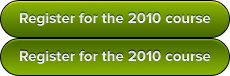
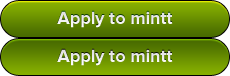
Updated home and register form from Mehdi feedback

Changed region(s): [[0.0609, 0.6316, 0.9435, 0.8684], [0.0609, 0.1316, 0.9435, 0.3684]]

diff --git a/public/stylesheets/style.css b/public/stylesheets/style.css
@@ -170,6 +170,44 @@ a#registration_button span {display:none;}
   line-height:20px;
 }
 
+#sidebar ul.entities {
+  margin:5px 0 0;
+  background:#111;
+  -webkit-border-radius:8px;
+  -moz-border-radius:8px;
+}
+
+#sidebar ul.entities li {
+  padding:0;
+  background:none;
+  display:block;
+  font-size:15px;
+  border-top:1px solid #222;
+  border-bottom:1px solid #000;
+}
+
+#sidebar ul.entities li.first {
+  line-height:0;
+  border-top:none;
+}
+
+#sidebar ul.entities li.last {
+  border-bottom:none;
+}
+
+#sidebar ul.entities li a {
+  display:block;
+  padding:10px 0 8px 10px;
+  color:#fff;
+  font-weight:500;
+}
+
+#sidebar ul.entities li a em {
+  color:#666;
+  font-style:normal;
+  text-shadow:none;
+}
+
 #modules {
   list-style-type:none;
 }
@@ -280,20 +318,23 @@ form.main .string label, form.main .text label {
 }
 
 form.main .string input, form.main textarea {
-  background:#fff;
+  background:#bbb;
   border:none;
   width:590px;
   font-size:15px;
   padding:3px;
-  border:2px solid #666;
+  border:2px solid #888;
+  -webkit-transition:background 0.2s;
 }
 
 form.main textarea {
   margin-bottom:-9px;
+  resize:vertical;
 }
 
 form.main .string input:focus, form.main textarea:focus {
   background:#fff;
+  border:2px solid #666;
   outline-color:#c3ff00;
 }
 
@@ -301,6 +342,10 @@ form.main li.radio li label {
   float:left;
   padding:10px 20px 10px 0;
 }
+
+form.main li.date li label {display:none;}
+form.main li.date ol {margin:15px 0;}
+form.main li.date li {display:inline;}
 
 form.main li.boolean input {
   margin:0 10px 0 0;

diff --git a/lib/multi_parameter_attributes.rb b/lib/multi_parameter_attributes.rb
@@ -1,0 +1,79 @@
+# http://gist.github.com/245094 (http://groups.google.com/group/mongomapper/browse_frm/thread/cd6e9d27d576aac4/3bdbe54462403765?lnk=gst&q=date#3bdbe54462403765)
+module MultiParameterAttributes
+  def attributes=(attrs)
+    multi_parameter_attributes = []
+    attrs.each do |name, value|
+      return if attrs.blank?
+      if name.to_s.include?("(")
+        multi_parameter_attributes << [ name, value ]
+      else
+        writer_method = "#{name}="
+        if respond_to?(writer_method)
+          self.send(writer_method, value)
+        else
+          self[name.to_s] = value
+        end
+      end
+    end
+  
+    assign_multiparameter_attributes(multi_parameter_attributes)
+  end
+  
+  def assign_multiparameter_attributes(pairs)
+    execute_callstack_for_multiparameter_attributes(
+      extract_callstack_for_multiparameter_attributes(pairs)
+    )
+  end
+  
+  def execute_callstack_for_multiparameter_attributes(callstack)
+    callstack.each do |name, values_with_empty_parameters|
+      # in order to allow a date to be set without a year, we must keep the empty values.
+      # Otherwise, we wouldn't be able to distinguish it from a date with an empty day.
+      values = values_with_empty_parameters.reject(&:nil?)
+ 
+      if values.any?
+        key = self.class.keys[name]
+        raise ArgumentError, "Unknown key #{name}" if key.nil?
+        klass = key.type
+        
+        value = if Time == klass
+          Time.zone.local(*values)
+        elsif Date == klass
+          begin
+            values = values_with_empty_parameters.collect do |v| v.nil? ? 1 : v end
+            Date.new(*values)
+          rescue ArgumentError => ex # if Date.new raises an exception on an invalid date
+            Time.zone.local(*values).to_date # we instantiate Time object and convert it back to a date thus using Time's logic in handling invalid dates
+          end
+        else
+          klass.new(*values)
+        end
+        writer_method = "#{name}="
+        if respond_to?(writer_method)
+          self.send(writer_method, value)
+        else
+          self[name.to_s] = value
+        end
+      end
+    end
+  end
+  
+  def extract_callstack_for_multiparameter_attributes(pairs)
+    attributes = { }
+  
+    for pair in pairs
+      multiparameter_name, value = pair
+      attribute_name = multiparameter_name.split("(").first
+      attributes[attribute_name] = [] unless attributes.include?(attribute_name)
+  
+      attributes[attribute_name] << [ find_parameter_position(multiparameter_name), value ]
+    end
+  
+    attributes.each { |name, values| attributes[name] = values.sort_by{ |v| v.first }.collect { |v| v.last } }
+  end
+  
+  def find_parameter_position(multiparameter_name)
+    multiparameter_name.scan(/\(([0-9]*).*\)/).first.first
+  end
+  
+end

diff --git a/app/models/user.rb b/app/models/user.rb
@@ -1,6 +1,7 @@
 class User
   include MongoMapper::Document
-
+  include MultiParameterAttributes
+  
   attr_accessor :agreement
   
   key :gender, String
@@ -13,6 +14,8 @@ class User
   key :linkedin_url, String
   key :thesis_supervisor, String
   key :thesis_subject, String
+  key :thesis_registration_date, Date
+  key :thesis_admission_date, Date
   key :supervisor_authorization, String
   key :doctoral_school_rules, String
   key :thesis_invention, String
@@ -21,6 +24,8 @@ class User
   timestamps!
   
   devise :registerable, :confirmable #, :authenticatable, :activatable, :recoverable, :rememberable, :trackable, :timeoutable, :lockable
+  
+  validate :validate_registration_before_admission_date, :validate_admission_after_registration_date
   
   # Email regex used to validate email formats. Retrieved from authlogic.
   EMAIL_REGEX = /\A[\w\.%\+\-]+@(?:[A-Z0-9\-]+\.)+(?:[A-Z]{2,4}|museum|travel)\z/i
@@ -47,6 +52,14 @@ protected
   
   def password_required?
     new_record? || !password.nil? || !password_confirmation.nil?
+  end
+  
+  def validate_registration_before_admission_date
+    errors.add(:thesis_registration_date, "must be before the admission date") if self.thesis_registration_date > self.thesis_admission_date
+  end
+  
+  def validate_admission_after_registration_date
+    errors.add(:thesis_admission_date, "must be after the registration date") if self.thesis_admission_date < self.thesis_registration_date
   end
   
 end
